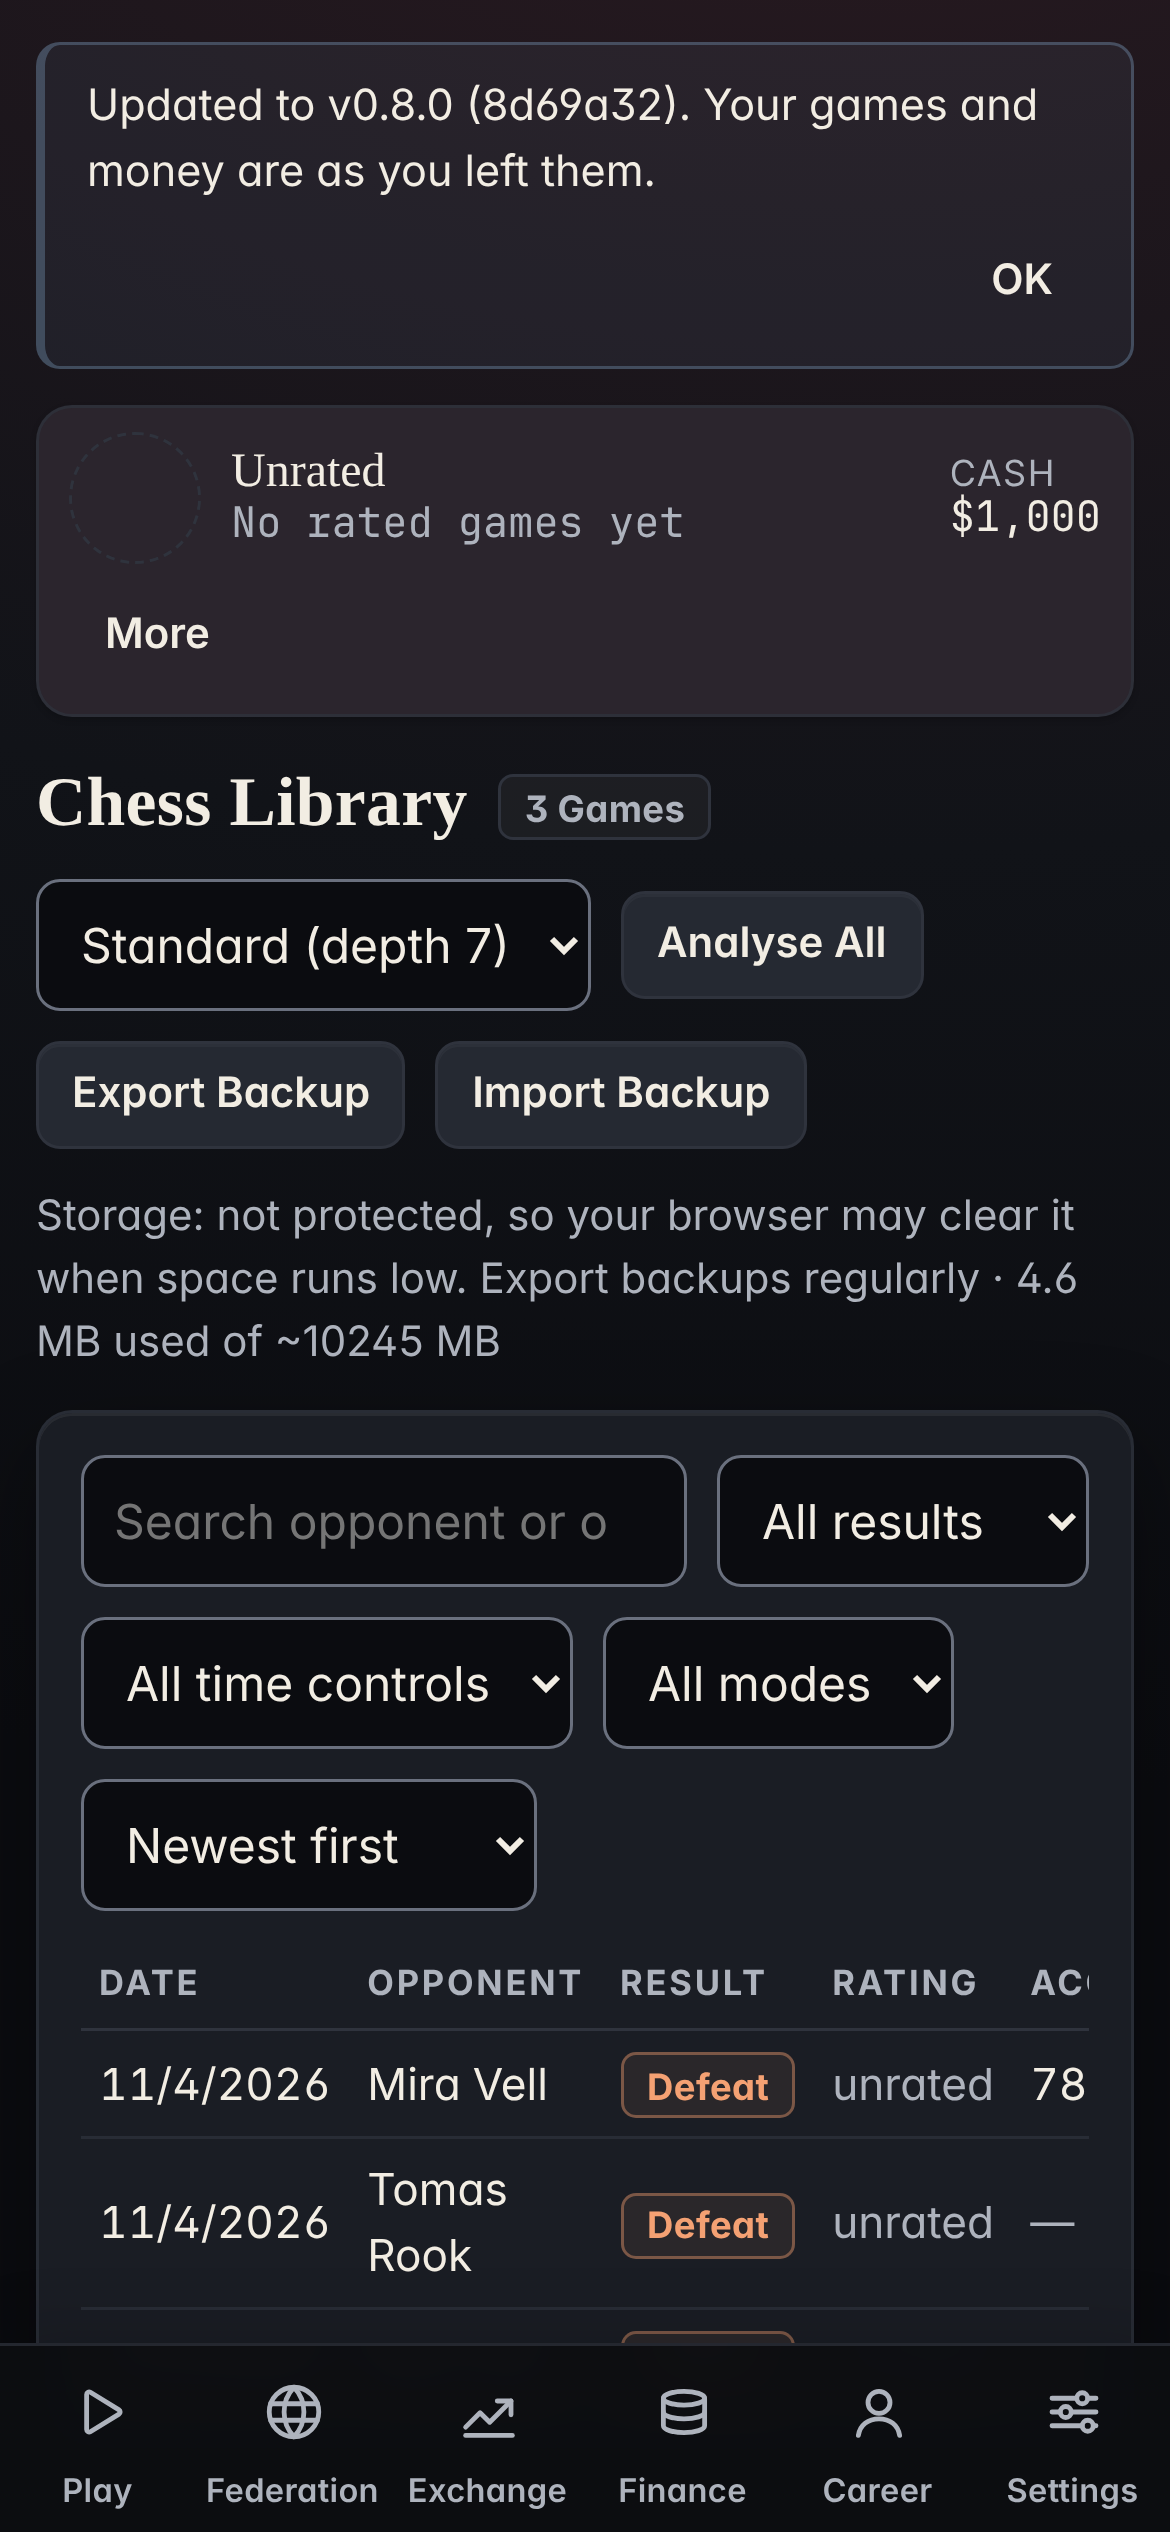
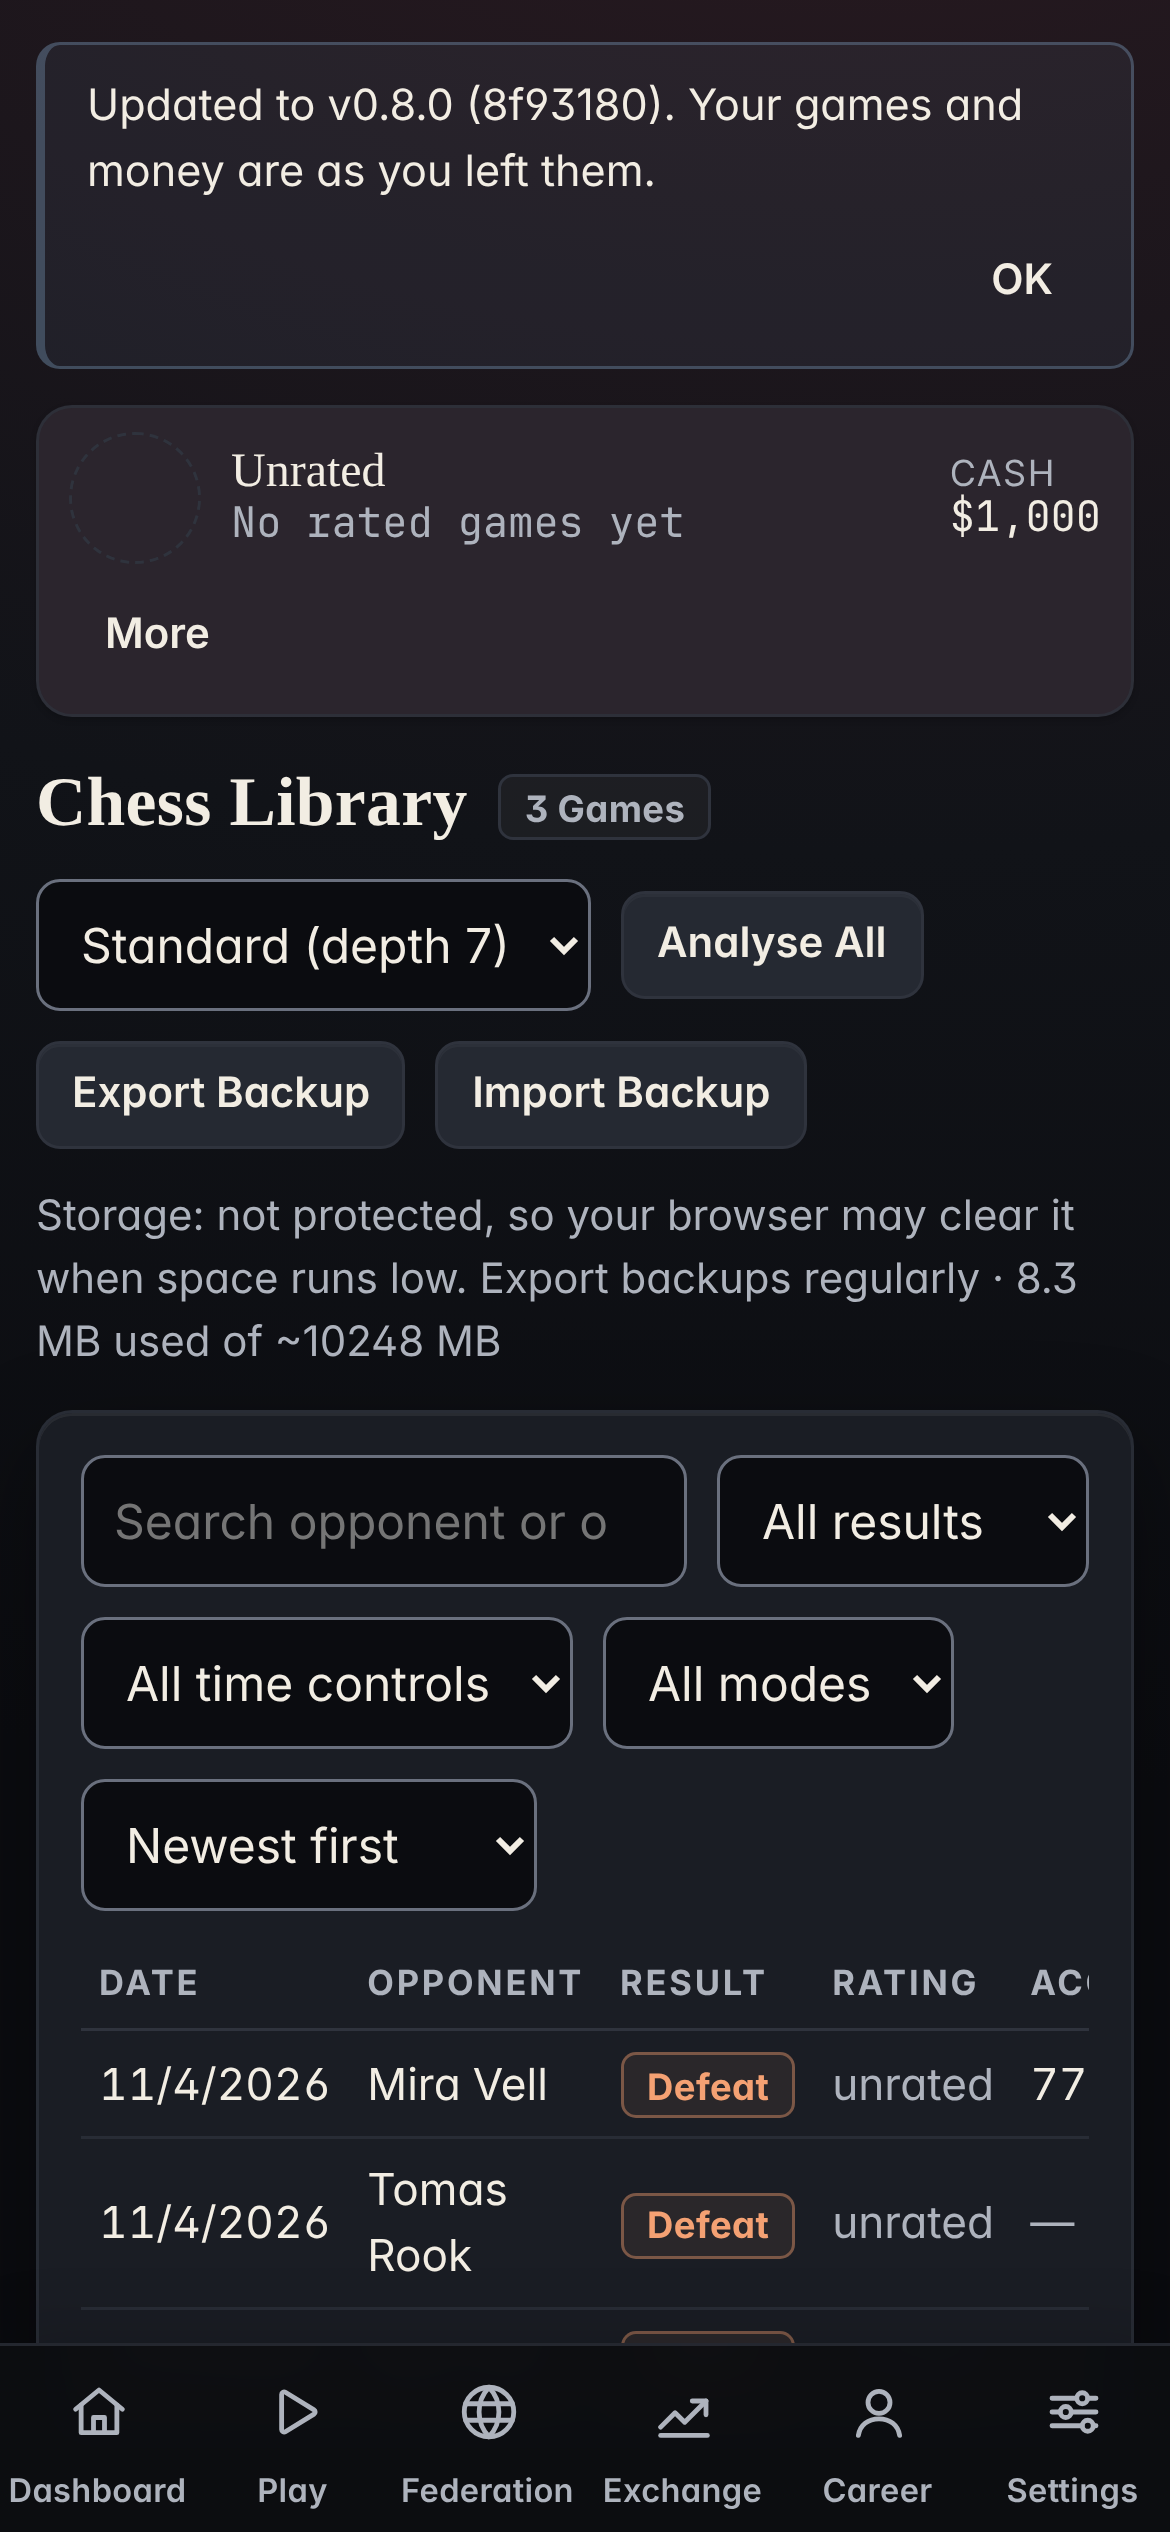
Fix app updates never installing once a Federation exists (#22) and an apply() render loop (#23)
The scheduler always keeps background live games running; only live games with a market
now block an update. apply() asks each waiting worker once and state notifications fire only
on a real change (React error #185). Regression tests added; pages-check 12/12.

Claude-Session: https://claude.ai/code/session_01BCRgncvcbDL8z48WLksUgi

diff --git a/tests/updatePolicy.test.ts b/tests/updatePolicy.test.ts
@@ -1,6 +1,6 @@
 /** "Is it safe to switch to a downloaded update now?" — the pure decision used by <UpdateNotice />. */
 import { describe, expect, it } from 'vitest';
-import { updateSafety, type UpdateSafetyInput } from '../src/app/updatePolicy';
+import { updateSafety, blockingLiveGames, type UpdateSafetyInput } from '../src/app/updatePolicy';
 
 const idle: UpdateSafetyInput = { route: 'play', matchGameStatus: null, liveArenaGames: 0, featuredInFlight: false, federationBusy: false, readOnly: false };
 
@@ -35,5 +35,33 @@ describe('updateSafety', () => {
     const left = updateSafety({ ...idle, route: 'play', matchGameStatus: null });
     expect(inGame.safe).toBe(false);
     expect(left.safe).toBe(true);
+  });
+});
+
+describe('blockingLiveGames (v0.9 scheduler)', () => {
+  it('counts only live in-play games with a market; scheduled background games never block an update', () => {
+    const games = [
+      { status: 'live', marketId: null }, { status: 'live', marketId: undefined }, { status: 'live' },
+      { status: 'done', marketId: 'mk:1' }, { status: 'live', marketId: 'mk:2' },
+    ];
+    expect(blockingLiveGames(games)).toBe(1);
+    expect(blockingLiveGames(games.slice(0, 3))).toBe(0);
+  });
+});
+
+describe('UpdateController.apply (React #185 regression)', () => {
+  it('asks a waiting worker once and does not notify listeners again when the state is unchanged', async () => {
+    const { updates, CURRENT_BUILD } = await import('../src/app/updates');
+    const posted: unknown[] = [];
+    const waiting = { postMessage: (m: unknown) => posted.push(m) } as unknown as ServiceWorker;
+    updates.reg = { waiting } as unknown as ServiceWorkerRegistration;
+    updates.state = { ...updates.state, waiting: true, available: CURRENT_BUILD, applying: false };
+    let notified = 0;
+    const off = updates.subscribe(() => { notified++; });
+    // The page already runs the waiting build, so apply() switches without a reload (applying stays false).
+    for (let i = 0; i < 50; i++) updates.apply();
+    off();
+    expect(posted).toEqual([{ type: 'SKIP_WAITING' }]);
+    expect(notified).toBe(0);
   });
 });

diff --git a/src/app/updates.ts b/src/app/updates.ts
@@ -39,11 +39,16 @@ class UpdateController {
   private listeners = new Set<() => void>();
   private reloading = false;
   private requested = false;
+  private askedWorker: ServiceWorker | null = null;
   private reloadOnSwitch = true;
 
   subscribe = (l: () => void) => { this.listeners.add(l); return () => { this.listeners.delete(l); }; };
   getState = () => this.state;
-  private set(p: Partial<UpdateState>) { this.state = { ...this.state, ...p }; this.listeners.forEach(l => l()); }
+  private set(p: Partial<UpdateState>) {
+    // Notify only on a real change: listeners re-render UpdateNotice, whose effect may call apply() again.
+    if ((Object.keys(p) as (keyof UpdateState)[]).every(k => Object.is(this.state[k], p[k]))) return;
+    this.state = { ...this.state, ...p }; this.listeners.forEach(l => l());
+  }
 
   start() {
     // confirmation after an update-triggered reload (once)
@@ -112,6 +117,9 @@ class UpdateController {
     if (this.state.activatedElsewhere) { this.reloadOnce(); return; }
     const w = this.reg?.waiting;
     if (!w) return;
+    // Ask each waiting worker once (re-asking re-rendered UpdateNotice in a loop: React error #185).
+    if (this.askedWorker === w) return;
+    this.askedWorker = w;
     this.requested = true;
     this.reloadOnSwitch = !this.runningMatchesWaiting();
     this.set({ applying: this.reloadOnSwitch });

diff --git a/src/ui/UpdateNotice.tsx b/src/ui/UpdateNotice.tsx
@@ -1,7 +1,7 @@
 import { useEffect, useRef, useState, useSyncExternalStore } from 'react';
 import { useApp } from './App';
 import { updates } from '../app/updates';
-import { updateSafety, BLOCKER_TEXT, type UpdateSafety } from '../app/updatePolicy';
+import { updateSafety, blockingLiveGames, BLOCKER_TEXT, type UpdateSafety } from '../app/updatePolicy';
 import type { GameStatus } from '../games/types';
 import type { AppServices } from '../app/services';
 
@@ -15,8 +15,8 @@ function currentRoute(): { name: string; id: string | null } {
 
 /** Federation internals the decision needs (read-only; not part of the service's public API). */
 function arena(services: AppServices) {
-  const fed = services.fed as unknown as { state?: { liveGames?: Map<string, { status: string }> }; inflight?: Map<string, unknown>; busy?: boolean } | undefined;
-  const live = fed?.state?.liveGames ? [...fed.state.liveGames.values()].filter(g => g.status === 'live').length : 0;
+  const fed = services.fed as unknown as { state?: { liveGames?: Map<string, { status: string; marketId?: string | null }> }; inflight?: Map<string, unknown>; busy?: boolean } | undefined;
+  const live = fed?.state?.liveGames ? blockingLiveGames(fed.state.liveGames.values()) : 0;
   return { live, inFlight: (fed?.inflight?.size ?? 0) > 0, busy: !!fed?.busy };
 }
 

diff --git a/src/app/updatePolicy.ts b/src/app/updatePolicy.ts
@@ -48,3 +48,11 @@ export const BLOCKER_TEXT: Record<UpdateBlocker, string> = {
   'federation-busy': 'It will install in a moment.',
   'other-tab': 'Close other Crown tabs to install it.',
 };
+
+/** Live arena games that block an update: in-play games with a market. Scheduled background games (no market)
+ *  commit every move and resume after the reload; the scheduler keeps some running at all times. */
+export function blockingLiveGames(games: Iterable<{ status: string; marketId?: string | null }>): number {
+  let n = 0;
+  for (const g of games) if (g.status === 'live' && !!g.marketId) n++;
+  return n;
+}

diff --git a/docs/BUG_REGISTER.md b/docs/BUG_REGISTER.md
@@ -27,6 +27,8 @@ behaviour with a workaround; **Low** = presentation.
 | 19 | Low | Stale assets | A page opened on an old build kept running it after a new release activated. | Service worker activates in the background; the open page keeps old JavaScript. | "A new version is ready — Reload Now" notice on controller change. | migrated-save check. |
 | 20 | Medium | Opponent styles | Competitors labelled "Defensive", "Endgame" or "Aggressive" played exactly as Universal; only Tactical and Positional changed play, and only in the first six plies. | Style evaluation parameters existed but were never validated, so none were enabled. | **Fixed (v0.9, crown-styles-5)**: full-game styled evaluation and contempt, validated with 200 colour-swapped games per style vs Universal (within ±50 Elo at 8k and 2k nodes). Tactical, Positional, Defensive and Endgame now change play all game, with measured differences: Defensive suffers about 10 % fewer king-zone attacks and draws 35.5 % vs 31 %; Endgame trades queens off at median ply 28 vs 31; Tactical draws 21 %. Aggressive failed its "more checks than the opponent" criterion and stays labelled and played as Universal. | `src/engine/styles.ts`, `styles-validation.json`, `tools/styles/measure.ts`, `tests/styles.test.ts`, docs/STYLES_REPORT.md |
 | 21 | Medium | Live odds | The in-play odds model ignores the rating gap: at an equal evaluation it returns ≈ 0.35/0.30/0.35 for any pairing. Found while writing Book VI. | The live model maps evaluation only. | **Fixed (v0.9)**: crown-odds-2 (`src/exchange/odds.ts`) — ordered-logit pre-game model on public ratings/RDs with fitted first-move edge and level-dependent draws, and a live model that keeps a fitted, decaying rating prior plus the published evaluation, ply and material; fitted on 2,400 and validated on 800 held-out federation engine games (all-ply log-loss 0.700 → 0.496). `tests/odds.test.ts`; docs/ODDS_MODEL.md. | `src/exchange/odds.ts`, `src/app/federation.ts` liveStep; Book VI §VI.6. |
+| 22 | High | App updates (iPhone) | With a Federation founded, a downloaded update never installed by itself: the notice counted every live arena game as an in-play market, and the v0.9 scheduler always keeps background games running. Found by `e2e/pages-check.mjs` (step 7) on the integrated build. | `UpdateNotice` counted all `status: 'live'` games. | **Fixed (v0.9)**: only live games with a market block an update (`blockingLiveGames` in `src/app/updatePolicy.ts`); scheduled games commit every move and resume after the reload. pages-check 12/12 again. | `src/app/updatePolicy.ts`, `src/ui/UpdateNotice.tsx`, `tests/updatePolicy.test.ts` |
+| 23 | Medium | App updates | React error #185 (maximum update depth) when the waiting update was the build the page already runs: `apply()` set state, the notice re-rendered, its effect called `apply()` again. Seen in the same pages-check run. | `apply()` re-asked the same waiting worker and `set()` notified listeners even when nothing changed. | **Fixed (v0.9)**: each waiting worker is asked once; `set()` notifies only on a real change. Regression test fails without the fix (50 SKIP_WAITING messages) and passes with it. | `src/app/updates.ts`, `tests/updatePolicy.test.ts` |
 
 Not reproduced in this pass (searched for, none found): illegal engine moves (0 in the ~650 benchmark games and all journey games
 run in this pass), incorrect promotions, duplicate rewards or ceremonies, negative balances, ledger imbalance (every simulated
